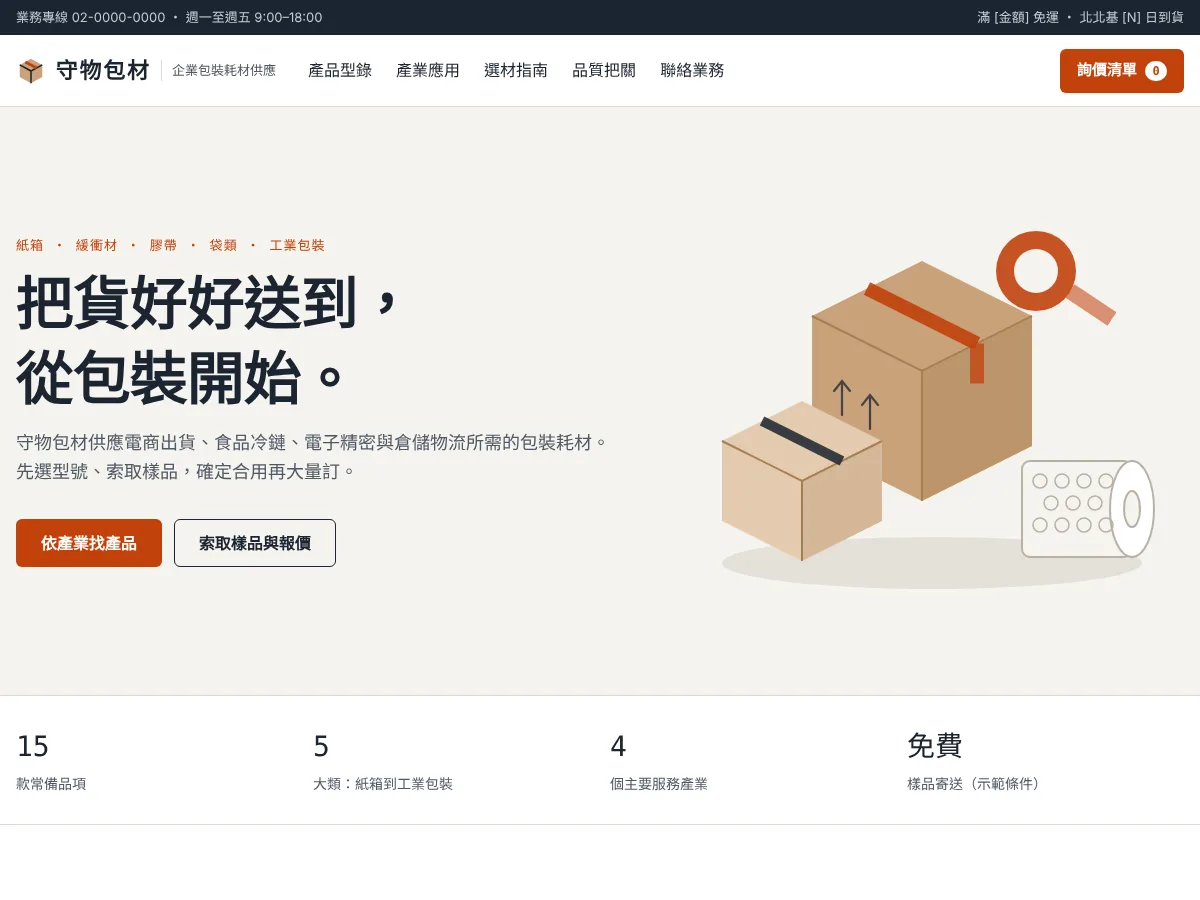
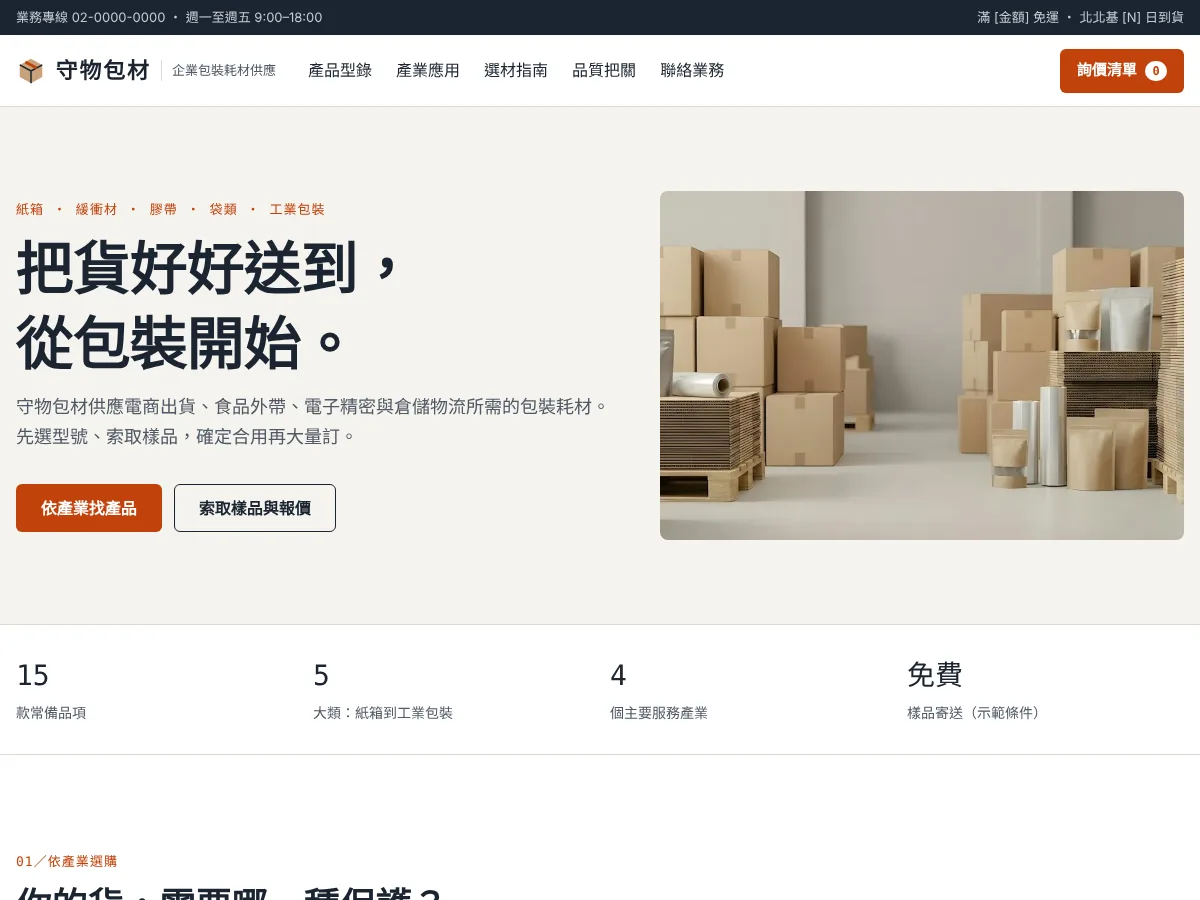
守物包材 Demo 改用 Unsplash 實景照片
站主指示用可商用授權的照片取代 SVG 插圖。首屏、產業卡與 15 張產品卡全部換成
Unsplash 免費授權照片（排除 Unsplash+ 與有真實品牌字樣的照片），頁尾與作品頁
標註攝影師。為了讓品項跟照片對得上，食品冷鏈改食品外帶、珍珠棉改 PE 保護膜、
鋁箔保冷袋改外帶牛皮紙袋。

Claude-Session: https://claude.ai/code/session_01T1Zcs4v9oNjq55NetdwRw1

diff --git a/public/demos/shouwu-packaging/index.html b/public/demos/shouwu-packaging/index.html
@@ -76,7 +76,8 @@ header.top{position:sticky;top:0;z-index:40;background:color-mix(in srgb,var(--b
 .hero .lead{font-size:1.125rem}
 .hero-cta{display:flex;flex-wrap:wrap;gap:12px;margin-top:32px}
 .hero-art{flex:1 1 400px;min-width:0;display:flex;justify-content:center}
-.hero-art svg{width:100%;max-width:520px;height:auto}
+.hero-art{margin:0}
+.hero-art img{display:block;width:100%;max-width:640px;height:auto;aspect-ratio:3/2;object-fit:cover;border-radius:8px}
 
 .stats{border-bottom:1px solid var(--line)}
 .stats .wrap{display:grid;grid-template-columns:repeat(auto-fit,minmax(150px,1fr));gap:20px;padding-block:28px}
@@ -90,8 +91,9 @@ section.sec{padding-block:clamp(64px,8vw,96px)}
 .ind-grid{display:grid;grid-template-columns:repeat(auto-fit,minmax(250px,1fr));gap:20px}
 .ind{display:flex;flex-direction:column;text-align:left;font:inherit;color:var(--ink);background:var(--bg);border:1px solid var(--line);border-radius:8px;overflow:hidden;cursor:pointer;padding:0}
 .ind:hover{border-color:var(--ink)}
-.ind .art{aspect-ratio:16/10;background:var(--soft);display:flex;align-items:center;justify-content:center;border-bottom:1px solid var(--line)}
-.ind .art svg{width:46%;height:auto}
+.ind .art{display:block;aspect-ratio:16/10;background:var(--soft);border-bottom:1px solid var(--line);overflow:hidden}
+.ind .art img{display:block;width:100%;height:100%;object-fit:cover;transition:transform .4s}
+.ind:hover .art img{transform:scale(1.03)}
 .ind .body{padding:22px;display:flex;flex-direction:column;gap:8px;flex:1}
 .ind .t{font-size:1.25rem;font-weight:700;line-height:1.3}
 .ind .d{font-size:.9375rem;color:var(--muted)}
@@ -129,8 +131,8 @@ tbody th,tbody td{padding:14px 18px;border-top:1px solid var(--line);vertical-al
 .chip{display:inline-flex;align-items:center;gap:6px;min-height:32px;padding:0 10px;border-radius:16px;background:var(--accent-soft);color:var(--ink);border:0;font:inherit;font-size:.8125rem;cursor:pointer}
 .grid{display:grid;grid-template-columns:repeat(auto-fill,minmax(230px,1fr));gap:18px}
 .card{border:1px solid var(--line);border-radius:8px;overflow:hidden;display:flex;flex-direction:column;background:var(--bg)}
-.card .art{aspect-ratio:4/3;background:var(--soft);display:flex;align-items:center;justify-content:center;border-bottom:1px solid var(--line)}
-.card .art svg{width:54%;height:auto}
+.card .art{aspect-ratio:4/3;background:var(--soft);border-bottom:1px solid var(--line);overflow:hidden}
+.card .art img{display:block;width:100%;height:100%;object-fit:cover}
 .card .body{padding:18px;display:flex;flex-direction:column;gap:8px;flex:1}
 .tags{display:flex;flex-wrap:wrap;gap:6px}
 .tag{font-size:.75rem;background:var(--accent-soft);color:var(--ink);border-radius:4px;padding:2px 8px}
@@ -200,7 +202,8 @@ footer .legal{border-top:1px solid var(--band-line);padding-block:18px;font-size
 .drawer-foot{padding:16px 20px;border-top:1px solid var(--line);display:flex;flex-direction:column;gap:10px}
 .drawer-foot p{font-size:.8125rem;color:var(--muted)}
 .toast{position:fixed;z-index:80;left:50%;bottom:calc(24px + env(safe-area-inset-bottom,0px));transform:translateX(-50%);background:var(--ink);color:var(--bg);padding:10px 18px;border-radius:6px;font-size:.9375rem;max-width:calc(100% - 32px)}
-@media (prefers-reduced-motion:reduce){html{scroll-behavior:auto}}
+@media (prefers-reduced-motion:reduce){html{scroll-behavior:auto}.ind .art img{transition:none}}
+.credit{margin-top:6px;font-size:.75rem;line-height:1.7}
 </style>
 </head>
 <body>
@@ -230,47 +233,13 @@ footer .legal{border-top:1px solid var(--band-line);padding-block:18px;font-size
   <div class="hero-copy">
     <p class="eyebrow">紙箱 ・ 緩衝材 ・ 膠帶 ・ 袋類 ・ 工業包裝</p>
     <h1>把貨好好送到，<br>從包裝開始。</h1>
-    <p class="lead">守物包材供應電商出貨、食品冷鏈、電子精密與倉儲物流所需的包裝耗材。先選型號、索取樣品，確定合用再大量訂。</p>
+    <p class="lead">守物包材供應電商出貨、食品外帶、電子精密與倉儲物流所需的包裝耗材。先選型號、索取樣品，確定合用再大量訂。</p>
     <div class="hero-cta">
       <a class="btn btn-primary" href="#industry">依產業找產品</a>
       <a class="btn btn-line" href="#contact">索取樣品與報價</a>
     </div>
   </div>
-  <div class="hero-art" aria-hidden="true">
-    <svg viewBox="0 0 520 420">
-      <ellipse cx="270" cy="372" rx="210" ry="26" fill="var(--line)" opacity=".7"/>
-      <!-- back big box -->
-      <g transform="translate(150 70)">
-        <path d="M110 0 220 55v130L110 240 0 185V55Z" fill="var(--kraft)"/>
-        <path d="M0 55 110 110 220 55" fill="none" stroke="var(--kraft-dark)" stroke-width="2"/>
-        <path d="M110 110v130" stroke="var(--kraft-dark)" stroke-width="2"/>
-        <path d="M110 110 220 55v130L110 240Z" fill="var(--kraft-dark)" opacity=".35"/>
-        <path d="M55 27.5 165 82.5" stroke="var(--accent)" stroke-width="14" opacity=".9"/>
-        <path d="M165 82.5v40" stroke="var(--accent)" stroke-width="14" opacity=".75"/>
-        <g fill="none" stroke="var(--ink)" stroke-width="2.2" stroke-linecap="round" opacity=".75"><path d="M30 120v34M22 130l8-10 8 10"/><path d="M58 134v34M50 144l8-10 8 10"/></g>
-      </g>
-      <!-- front small box -->
-      <g transform="translate(60 210)">
-        <path d="M80 0 160 40v80L80 160 0 120V40Z" fill="var(--kraft-light)"/>
-        <path d="M0 40 80 80 160 40M80 80v80" fill="none" stroke="var(--kraft-dark)" stroke-width="2"/>
-        <path d="M80 80 160 40v80L80 160Z" fill="var(--kraft-dark)" opacity=".25"/>
-        <path d="M40 20 120 60" stroke="var(--ink)" stroke-width="10" opacity=".85"/>
-      </g>
-      <!-- bubble roll -->
-      <g transform="translate(360 250)">
-        <rect x="0" y="20" width="110" height="96" rx="8" fill="var(--soft)" stroke="var(--field)" stroke-width="2"/>
-        <ellipse cx="110" cy="68" rx="22" ry="48" fill="var(--bg)" stroke="var(--field)" stroke-width="2"/>
-        <ellipse cx="110" cy="68" rx="8" ry="18" fill="var(--soft)" stroke="var(--field)" stroke-width="2"/>
-        <g fill="none" stroke="var(--field)" stroke-width="1.6"><circle cx="18" cy="40" r="7"/><circle cx="40" cy="40" r="7"/><circle cx="62" cy="40" r="7"/><circle cx="84" cy="40" r="7"/><circle cx="29" cy="62" r="7"/><circle cx="51" cy="62" r="7"/><circle cx="73" cy="62" r="7"/><circle cx="18" cy="84" r="7"/><circle cx="40" cy="84" r="7"/><circle cx="62" cy="84" r="7"/><circle cx="84" cy="84" r="7"/></g>
-      </g>
-      <!-- tape -->
-      <g transform="translate(330 36)">
-        <circle cx="44" cy="44" r="40" fill="var(--accent)" opacity=".9"/>
-        <circle cx="44" cy="44" r="22" fill="var(--soft)"/>
-        <path d="M78 64 120 92" stroke="var(--accent)" stroke-width="16" opacity=".55"/>
-      </g>
-    </svg>
-  </div>
+  <figure class="hero-art"><img src="img/hero.webp" width="889" height="593" alt="倉庫裡堆放的紙箱、包材袋與棧板" fetchpriority="high"></figure>
 </div></section>
 
 <section class="stats" aria-label="數字一覽"><div class="wrap">
@@ -298,12 +267,12 @@ footer .legal{border-top:1px solid var(--band-line);padding-block:18px;font-size
   </div>
   <div class="table-box" role="tabpanel" id="panel-cushion" aria-labelledby="tab-cushion">
     <table>
-      <thead><tr><th scope="col">比較項目</th><th scope="col">氣泡布</th><th scope="col">牛皮紙緩衝</th><th scope="col">珍珠棉</th></tr></thead>
+      <thead><tr><th scope="col">比較項目</th><th scope="col">氣泡布</th><th scope="col">牛皮紙緩衝</th><th scope="col">PE 保護膜</th></tr></thead>
       <tbody>
-        <tr><th scope="row">防撞</th><td>佳</td><td>普通</td><td>佳</td></tr>
+        <tr><th scope="row">防撞</th><td>佳</td><td>普通</td><td>弱，主要防刮</td></tr>
         <tr><th scope="row">防刮</th><td>普通</td><td>普通</td><td>最佳</td></tr>
         <tr><th scope="row">可回收</th><td>依當地分類</td><td>可隨紙類回收</td><td>依當地分類</td></tr>
-        <tr><th scope="row">適合</th><td>3C、玻璃瓶、一般電商</td><td>重視環保形象的品牌、填充空隙</td><td>面板、烤漆、精密零件</td></tr>
+        <tr><th scope="row">適合</th><td>3C、玻璃瓶、一般電商</td><td>重視環保形象的品牌、填充空隙</td><td>面板、烤漆、金屬表面</td></tr>
       </tbody>
     </table>
   </div>
@@ -347,7 +316,7 @@ footer .legal{border-top:1px solid var(--band-line);padding-block:18px;font-size
   <div class="band-grid">
     <div class="qcard"><b>到貨前抽檢</b><span>每批依型號抽樣，量尺寸、測抗壓與黏著。</span></div>
     <div class="qcard"><b>規格固定不偷換</b><span>同型號長期供應同一規格，換料會先通知。</span></div>
-    <div class="qcard"><b>食品接觸級品項</b><span>夾鏈袋、保冷袋另附材質說明（示範內容）。</span></div>
+    <div class="qcard"><b>食品接觸級品項</b><span>夾鏈袋、外帶紙袋另附材質說明（示範內容）。</span></div>
     <div class="qcard"><b>固定交期</b><span>月結客戶可約定每月出貨日，備貨不斷料。</span></div>
   </div>
 </div></section>
@@ -388,11 +357,11 @@ footer .legal{border-top:1px solid var(--band-line);padding-block:18px;font-size
 <footer><div class="wrap">
   <div class="cols">
     <div><b>守物包材</b>企業包裝耗材供應<br>虛構品牌，僅作網站示範</div>
-    <div><b>紙箱與袋類</b>三層・五層紙箱<br>飛機盒<br>破壞袋・夾鏈袋・保冷袋</div>
-    <div><b>緩衝與封箱</b>氣泡布・氣泡袋<br>牛皮紙緩衝・珍珠棉<br>透明・牛皮紙・印刷膠帶</div>
+    <div><b>紙箱與袋類</b>三層・五層紙箱<br>飛機盒<br>破壞袋・夾鏈袋・外帶紙袋</div>
+    <div><b>緩衝與封箱</b>氣泡布・氣泡袋<br>牛皮紙緩衝・PE 保護膜<br>透明・牛皮紙・印刷膠帶</div>
     <div><b>工業包裝</b>棧板拉伸膜<br>打包帶</div>
   </div>
-  <div class="legal">本頁為網站設計示範，品牌、產品、規格、聯絡方式皆為虛構，詢價不會真的送出。</div>
+  <div class="legal">本頁為網站設計示範，品牌、產品、規格、聯絡方式皆為虛構，詢價不會真的送出。<p class="credit">照片來自 Unsplash（Unsplash 授權，可免費商用）：Guilherme Mendes、GB The Green Brand、Conor Brown、Marco Palumbo、Bernd Dittrich、Giorgio Trovato、Brandable Box、Mediamodifier、Ingmar、Ariful Islam、Kiwihug、Barry A、M Danang Muktamarrodin、Franck V.、With Mahdy、Dmitry Mashkin、Arum Visuals、Rohit Choudhari。照片僅為示意，與虛構品牌無關。</p></div>
 </div></footer>
 
 <div class="scrim" id="scrim" hidden></div>
@@ -407,39 +376,29 @@ footer .legal{border-top:1px solid var(--band-line);padding-block:18px;font-size
 (function(){
   var CATS=['紙箱','緩衝材','膠帶','袋類','工業包裝'];
   var INDS=[
-    {id:'電商出貨',desc:'郵寄紙箱、飛機盒、氣泡袋、破壞袋，日常出貨一次備齊。',art:'box'},
-    {id:'食品冷鏈',desc:'保冷袋、食品接觸級夾鏈袋，搭配加厚紙箱寄生鮮與甜點。',art:'bag'},
-    {id:'電子精密',desc:'珍珠棉、氣泡布與五層紙箱，保護面板、零件與儀器。',art:'foam'},
-    {id:'倉儲物流',desc:'棧板拉伸膜、打包帶、五層紙箱，整板出貨不散不倒。',art:'film'}
+    {id:'電商出貨',desc:'郵寄紙箱、飛機盒、氣泡袋、破壞袋，日常出貨一次備齊。',img:'ind-ecommerce',alt:'工作人員在包裹上貼出貨標籤'},
+    {id:'食品外帶',desc:'食品夾鏈袋、外帶紙袋與紙盒，寄甜點、乾貨與外帶餐點。',img:'ind-food',alt:'牛皮紙餐盒裡裝著餅乾'},
+    {id:'電子精密',desc:'保護膜、氣泡布與五層紙箱，保護面板、零件與儀器。',img:'ind-electronics',alt:'透明塑膠保護膜的皺褶特寫'},
+    {id:'倉儲物流',desc:'棧板拉伸膜、打包帶、五層紙箱，整板出貨不散不倒。',img:'ind-logistics',alt:'倉庫走道上的堆高機與貨架'}
   ];
   var P=[
     {id:'b1',c:'紙箱',n:'三層郵寄紙箱',d:'電商最常用，6 種尺寸可選。',s:[['楞別','B 楞'],['尺寸','[6 種]'],['包裝','每捆 25 入']],i:['電商出貨'],u:'捆',a:'box'},
-    {id:'b2',c:'紙箱',n:'五層加厚紙箱',d:'承重與堆疊更好，適合重物與倉儲。',s:[['楞別','AB 楞'],['尺寸','[8 種]'],['包裝','每捆 10 入']],i:['電子精密','倉儲物流','食品冷鏈'],u:'捆',a:'box'},
+    {id:'b2',c:'紙箱',n:'五層加厚紙箱',d:'承重與堆疊更好，適合重物與倉儲。',s:[['楞別','AB 楞'],['尺寸','[8 種]'],['包裝','每捆 10 入']],i:['電子精密','倉儲物流','食品外帶'],u:'捆',a:'box'},
     {id:'b3',c:'紙箱',n:'摺疊飛機盒',d:'卡扣成型免膠帶，開箱體驗好。',s:[['材質','白牛皮'],['尺寸','[5 種]'],['包裝','每捆 50 入']],i:['電商出貨'],u:'捆',a:'mailer'},
     {id:'c1',c:'緩衝材',n:'氣泡布',d:'防撞萬用款，可裁切成任意大小。',s:[['寬度','30／60／120 公分'],['長度','每卷 [N] 公尺'],['氣泡','10 公釐']],i:['電商出貨','電子精密'],u:'卷',a:'bubble'},
     {id:'c2',c:'緩衝材',n:'氣泡信封袋',d:'外層牛皮紙、內層氣泡，小件直接寄。',s:[['尺寸','[6 種]'],['封口','自黏'],['包裝','每包 100 入']],i:['電商出貨'],u:'包',a:'bag'},
-    {id:'c3',c:'緩衝材',n:'牛皮紙緩衝卷',d:'可隨紙類回收，填充空隙、包覆瓶罐。',s:[['寬度','38 公分'],['長度','每卷 [N] 公尺'],['基重','[—]']],i:['電商出貨','食品冷鏈'],u:'卷',a:'paper'},
-    {id:'c4',c:'緩衝材',n:'珍珠棉',d:'柔軟不刮傷，適合面板與烤漆件。',s:[['厚度','1–10 公釐'],['寬度','100 公分'],['包裝','依厚度']],i:['電子精密'],u:'卷',a:'foam'},
+    {id:'c3',c:'緩衝材',n:'牛皮紙緩衝卷',d:'可隨紙類回收，填充空隙、包覆瓶罐。',s:[['寬度','38 公分'],['長度','每卷 [N] 公尺'],['基重','[—]']],i:['電商出貨','食品外帶'],u:'卷',a:'paper'},
+    {id:'c4',c:'緩衝材',n:'PE 保護膜',d:'貼覆表面防刮防塵，適合面板與烤漆件。',s:[['厚度','[—]'],['寬度','[—]'],['包裝','每卷 [N] 公尺']],i:['電子精密'],u:'卷',a:'foam'},
     {id:'t1',c:'膠帶',n:'透明封箱膠帶',d:'一般紙箱封箱，黏著穩定。',s:[['寬度','48 公釐'],['長度','每卷 [N] 公尺'],['包裝','每箱 60 卷']],i:['電商出貨','倉儲物流'],u:'箱',a:'tape'},
     {id:'t2',c:'膠帶',n:'牛皮紙膠帶',d:'可書寫，和紙箱同色更整齊。',s:[['寬度','48 公釐'],['長度','每卷 [N] 公尺'],['包裝','每箱 50 卷']],i:['電商出貨'],u:'箱',a:'tape'},
-    {id:'t3',c:'膠帶',n:'客製印刷膠帶',d:'印上品牌名稱，封箱就是廣告。',s:[['印刷','1–2 色'],['最低訂量','[N] 卷'],['交期','[N] 工作天']],i:['電商出貨','食品冷鏈'],u:'箱',a:'tape'},
+    {id:'t3',c:'膠帶',n:'客製印刷膠帶',d:'印上品牌名稱，封箱就是廣告。',s:[['印刷','1–2 色'],['最低訂量','[N] 卷'],['交期','[N] 工作天']],i:['電商出貨','食品外帶'],u:'箱',a:'tape'},
     {id:'g1',c:'袋類',n:'破壞袋',d:'撕開無法復原，寄送服飾與文件。',s:[['尺寸','[8 種]'],['顏色','灰／白'],['包裝','每包 100 入']],i:['電商出貨'],u:'包',a:'bag'},
-    {id:'g2',c:'袋類',n:'食品夾鏈袋',d:'食品接觸級材料，分裝零食與乾貨。',s:[['尺寸','[6 種]'],['厚度','[—]'],['包裝','每包 100 入']],i:['食品冷鏈'],u:'包',a:'bag'},
-    {id:'g3',c:'袋類',n:'鋁箔保冷袋',d:'搭配冰磚寄送生鮮、甜點。',s:[['尺寸','[4 種]'],['結構','鋁箔＋泡棉'],['包裝','每包 50 入']],i:['食品冷鏈'],u:'包',a:'bag'},
+    {id:'g2',c:'袋類',n:'食品夾鏈袋',d:'食品接觸級材料，分裝零食與乾貨。',s:[['尺寸','[6 種]'],['厚度','[—]'],['包裝','每包 100 入']],i:['食品外帶'],u:'包',a:'bag'},
+    {id:'g3',c:'袋類',n:'外帶牛皮紙袋',d:'有提把，外帶餐點與門市出貨用。',s:[['尺寸','[4 種]'],['材質','牛皮紙'],['包裝','每包 50 入']],i:['食品外帶'],u:'包',a:'bag'},
     {id:'w1',c:'工業包裝',n:'棧板拉伸膜',d:'整板纏繞固定，防塵防散落。',s:[['寬度','50 公分'],['厚度','[—]'],['包裝','每箱 4 卷']],i:['倉儲物流'],u:'箱',a:'film'},
     {id:'w2',c:'工業包裝',n:'打包帶',d:'重箱、整綑出貨加固用。',s:[['寬度','12 公釐'],['材質','PP'],['包裝','每卷 [N] 公尺']],i:['倉儲物流','電子精密'],u:'卷',a:'strap'}
   ];
-  var ART={
-    box:'<svg viewBox="0 0 120 110" aria-hidden="true"><path d="M60 6 112 32v52L60 108 8 84V32Z" fill="var(--kraft)"/><path d="M8 32 60 58l52-26M60 58v50" fill="none" stroke="var(--kraft-dark)" stroke-width="2"/><path d="M60 58 112 32v52L60 108Z" fill="var(--kraft-dark)" opacity=".3"/><path d="M34 19 86 45" stroke="var(--accent)" stroke-width="8"/></svg>',
-    mailer:'<svg viewBox="0 0 120 110" aria-hidden="true"><path d="M8 56 60 80l52-24v22L60 104 8 78Z" fill="var(--kraft-light)" stroke="var(--kraft-dark)" stroke-width="2"/><path d="M8 56 60 32l52 24-52 24Z" fill="var(--kraft)" stroke="var(--kraft-dark)" stroke-width="2"/><path d="M8 56 30 10l52 24-22 46" fill="var(--kraft-light)" stroke="var(--kraft-dark)" stroke-width="2" opacity=".9"/></svg>',
-    bubble:'<svg viewBox="0 0 120 110" aria-hidden="true"><rect x="6" y="22" width="84" height="70" rx="6" fill="var(--bg)" stroke="var(--field)" stroke-width="2"/><ellipse cx="90" cy="57" rx="18" ry="35" fill="var(--bg)" stroke="var(--field)" stroke-width="2"/><ellipse cx="90" cy="57" rx="7" ry="13" fill="var(--soft)" stroke="var(--field)" stroke-width="2"/><g fill="none" stroke="var(--field)" stroke-width="1.6"><circle cx="20" cy="38" r="6"/><circle cx="38" cy="38" r="6"/><circle cx="56" cy="38" r="6"/><circle cx="29" cy="56" r="6"/><circle cx="47" cy="56" r="6"/><circle cx="65" cy="56" r="6"/><circle cx="20" cy="74" r="6"/><circle cx="38" cy="74" r="6"/><circle cx="56" cy="74" r="6"/></g></svg>',
-    bag:'<svg viewBox="0 0 120 110" aria-hidden="true"><rect x="22" y="12" width="76" height="90" rx="5" fill="var(--kraft-light)" stroke="var(--kraft-dark)" stroke-width="2"/><path d="M22 28h76" stroke="var(--accent)" stroke-width="4"/><path d="M36 48h48M36 60h36" stroke="var(--kraft-dark)" stroke-width="3" stroke-linecap="round" opacity=".6"/></svg>',
-    paper:'<svg viewBox="0 0 120 110" aria-hidden="true"><rect x="10" y="30" width="80" height="56" rx="4" fill="var(--kraft)" /><path d="M10 44h80M10 58h80M10 72h80" stroke="var(--kraft-dark)" stroke-width="1.6" opacity=".6"/><ellipse cx="90" cy="58" rx="14" ry="28" fill="var(--kraft-light)" stroke="var(--kraft-dark)" stroke-width="2"/><ellipse cx="90" cy="58" rx="5" ry="10" fill="var(--soft)" stroke="var(--kraft-dark)" stroke-width="2"/></svg>',
-    foam:'<svg viewBox="0 0 120 110" aria-hidden="true"><g stroke="var(--field)" stroke-width="2"><path d="M14 40 60 18l46 22-46 22Z" fill="var(--bg)"/><path d="M14 40v12l46 22 46-22V40L60 62Z" fill="var(--soft)"/><path d="M14 58v12l46 22 46-22V58L60 80Z" fill="var(--bg)"/></g><path d="M14 58 60 80l46-22" fill="none" stroke="var(--accent)" stroke-width="2.5"/></svg>',
-    tape:'<svg viewBox="0 0 120 110" aria-hidden="true"><circle cx="54" cy="55" r="40" fill="var(--accent)" opacity=".85"/><circle cx="54" cy="55" r="22" fill="var(--soft)"/><circle cx="54" cy="55" r="40" fill="none" stroke="var(--accent-deep)" stroke-width="2"/><path d="M90 72 114 88" stroke="var(--accent)" stroke-width="12" opacity=".5"/></svg>',
-    film:'<svg viewBox="0 0 120 110" aria-hidden="true"><rect x="34" y="8" width="52" height="94" rx="6" fill="var(--soft)" stroke="var(--field)" stroke-width="2"/><ellipse cx="60" cy="10" rx="26" ry="7" fill="var(--bg)" stroke="var(--field)" stroke-width="2"/><ellipse cx="60" cy="10" rx="8" ry="2.5" fill="var(--kraft)"/><path d="M40 30h40M40 50h40M40 70h40M40 90h40" stroke="var(--field)" stroke-width="1.4"/></svg>',
-    strap:'<svg viewBox="0 0 120 110" aria-hidden="true"><circle cx="60" cy="55" r="42" fill="none" stroke="var(--ink)" stroke-width="10" opacity=".8"/><circle cx="60" cy="55" r="28" fill="none" stroke="var(--ink)" stroke-width="10" opacity=".55"/><circle cx="60" cy="55" r="12" fill="var(--kraft)"/></svg>'
-  };
+  var ALT={"b1": "貼著橘色膠帶的牛皮紙箱", "b2": "放在木桌上的牛皮紙箱", "b3": "有卡扣的摺疊紙盒", "c1": "透明氣泡布特寫", "c2": "琥珀色氣泡材特寫", "c3": "牛皮紙表面特寫", "c4": "透明塑膠膜皺褶特寫", "t1": "紅色膠台與透明膠帶", "t2": "三卷不同的膠帶", "t3": "工作人員在倉庫封箱", "g1": "一袋袋塑膠包裝袋", "g2": "站立式牛皮紙夾鏈袋", "g3": "有提把的牛皮紙袋", "w1": "倉庫貨架上包著拉伸膜的棧板貨物", "w2": "貼著藍色帶子的一堆紙箱"};
   var KEY='shouwu-rfq';
   var rfq={};
   try{rfq=JSON.parse(localStorage.getItem(KEY)||'{}')||{};}catch(e){rfq={};}
@@ -452,7 +411,7 @@ footer .legal{border-top:1px solid var(--band-line);padding-block:18px;font-size
   // industry cards
   $('indGrid').innerHTML=INDS.map(function(x){
     var n=P.filter(function(p){return p.i.indexOf(x.id)>-1;}).length;
-    return '<button type="button" class="ind" data-ind="'+x.id+'"><span class="art">'+ART[x.art]+'</span><span class="body"><span class="t">'+x.id+'</span><span class="d">'+x.desc+'</span><span class="go">'+n+' 款適用品項 →</span></span></button>';
+    return '<button type="button" class="ind" data-ind="'+x.id+'"><span class="art"><img src="img/'+x.img+'.webp" width="800" height="500" alt="'+x.alt+'" loading="lazy"></span><span class="body"><span class="t">'+x.id+'</span><span class="d">'+x.desc+'</span><span class="go">'+n+' 款適用品項 →</span></span></button>';
   }).join('');
   $('indGrid').addEventListener('click',function(e){
     var b=e.target.closest('.ind'); if(!b)return;
@@ -494,7 +453,7 @@ footer .legal{border-top:1px solid var(--band-line);padding-block:18px;font-size
     $('chips').innerHTML=chips.map(function(c){return '<button type="button" class="chip" data-k="'+c[0]+'" data-v="'+esc(c[1])+'" aria-label="移除條件 '+esc(c[1])+'">'+esc(c[1])+' ✕</button>';}).join('');
     $('grid').innerHTML=list.length?list.map(function(p){
       var on=!!rfq[p.id];
-      return '<article class="card"><div class="art">'+ART[p.a]+'</div><div class="body"><div class="tags"><span class="tag">'+p.c+'</span>'+p.i.slice(0,2).map(function(x){return '<span class="tag">'+x+'</span>';}).join('')+'</div><h3>'+p.n+'</h3><p>'+p.d+'</p><dl class="spec">'+p.s.map(function(r){return '<dt>'+r[0]+'</dt><dd>'+r[1]+'</dd>';}).join('')+'</dl><button type="button" class="add" data-id="'+p.id+'" aria-pressed="'+on+'">'+(on?'✓ 已在詢價清單':'＋ 加入詢價')+'</button></div></article>';
+      return '<article class="card"><div class="art"><img src="img/p-'+p.id+'.webp" width="800" height="600" alt="'+ALT[p.id]+'" loading="lazy"></div><div class="body"><div class="tags"><span class="tag">'+p.c+'</span>'+p.i.slice(0,2).map(function(x){return '<span class="tag">'+x+'</span>';}).join('')+'</div><h3>'+p.n+'</h3><p>'+p.d+'</p><dl class="spec">'+p.s.map(function(r){return '<dt>'+r[0]+'</dt><dd>'+r[1]+'</dd>';}).join('')+'</dl><button type="button" class="add" data-id="'+p.id+'" aria-pressed="'+on+'">'+(on?'✓ 已在詢價清單':'＋ 加入詢價')+'</button></div></article>';
     }).join(''):'<div class="empty">沒有符合的品項。換個條件，或直接<a href="#contact">告訴業務你的需求</a>。</div>';
   }
   $('grid').addEventListener('click',function(e){

diff --git a/AGENTS.md b/AGENTS.md
@@ -69,6 +69,12 @@
 
 ## 6. 作業紀錄
 
+### 2026-11-04 — 守物包材 Demo 改用 Unsplash 實景照片
+- 範圍：`public/demos/shouwu-packaging/index.html`（首屏、四張產業卡、15 張產品卡由 SVG 插圖改成照片；拿掉 `ART` 插圖物件；頁尾加攝影師標註；「食品冷鏈」改「食品外帶」、「珍珠棉」改「PE 保護膜」、「鋁箔保冷袋」改「外帶牛皮紙袋」，讓品項跟找得到的免費照片對得上；選材表同步改）、`public/demos/shouwu-packaging/img/*.webp`（hero 889×593、產業卡 800×500、產品卡 800×600，Pillow 裁切轉檔，共約 0.9MB；`cover.webp` 重新截圖）、`src/content/works/shouwu-packaging-site.md`（加 `credits`、`updated`）
+- 原因：站主 2026-11-04 指示從網路找可商用授權的照片取代插圖
+- 照片：全部來自 Unsplash 免費授權（Unsplash License，可商用、不需署名，仍在 Demo 頁尾與作品頁標註攝影師）；排除 Unsplash+ 付費圖，也排除畫面上有真實品牌字樣的照片（Packhelp、Vanguard、Lockport、燕麥包裝等）。兩張有人物（GB The Green Brand），未取得肖像授權，只適合作品集示範。雲端沙箱連不到圖庫，改由站主 Mac 下載後傳回
+- 驗證：`npm run build` 通過；Playwright 390／768／1280／1440px 無橫向捲動、無破圖、無 JS 錯誤；1280px 跑完產業篩選、詢價清單、表單送出、選材分頁
+
 ### 2026-11-04 — 新增作品〈企業採購型錄網站：守物包材〉與網頁 Demo
 - 範圍：`public/demos/shouwu-packaging/index.html`（純前端單檔、`noindex`；依產業找產品、選材比較表分頁、型錄品類／產業／關鍵字篩選、詢價清單側欄可調月用量、詢價表單驗證與模擬送出；詢價清單只存 localStorage；產品圖全為內嵌 SVG 插圖；支援深色模式；被嵌入時隱藏左下角回作品頁連結）、`public/demos/shouwu-packaging/img/cover.webp`（Demo 首屏截圖，1200×900）、`src/content/works/shouwu-packaging-site.md`（自有作品，order 14，以 `demo` 欄位整頁嵌入）
 - 原因：站主 2026-11-04 指示把一家真實耗材供應商的網站改版提案去識別化、換成別種產品，做成作品集 Demo。原公司名稱、品牌、產品線、地址、電話、統編、認證一律不用；品牌改為虛構的「守物包材」（包裝耗材），品牌名與文案只用中文；規格中無法確定的數字保留 `[N]` 等佔位

diff --git a/src/content/works/shouwu-packaging-site.md b/src/content/works/shouwu-packaging-site.md
@@ -10,7 +10,9 @@ demo: /demos/shouwu-packaging/
 demoName: 守物包材
 link: /demos/shouwu-packaging/
 cover: /demos/shouwu-packaging/img/cover.webp
-coverAlt: 守物包材官網首頁，紙箱、膠帶與氣泡布插圖
+coverAlt: 守物包材官網首頁，倉庫裡的紙箱與包材
+credits: Guilherme Mendes、GB The Green Brand、Conor Brown、Marco Palumbo、Bernd Dittrich、Giorgio Trovato、Brandable Box、Mediamodifier、Ingmar、Ariful Islam、Kiwihug、Barry A、M Danang Muktamarrodin、Franck V.、With Mahdy、Dmitry Mashkin、Arum Visuals、Rohit Choudhari
+updated: 2026-11-04
 ---
 
 <!-- 品牌網站 Demo：作品頁直接嵌入 /demos/shouwu-packaging/，不顯示內文。 -->
